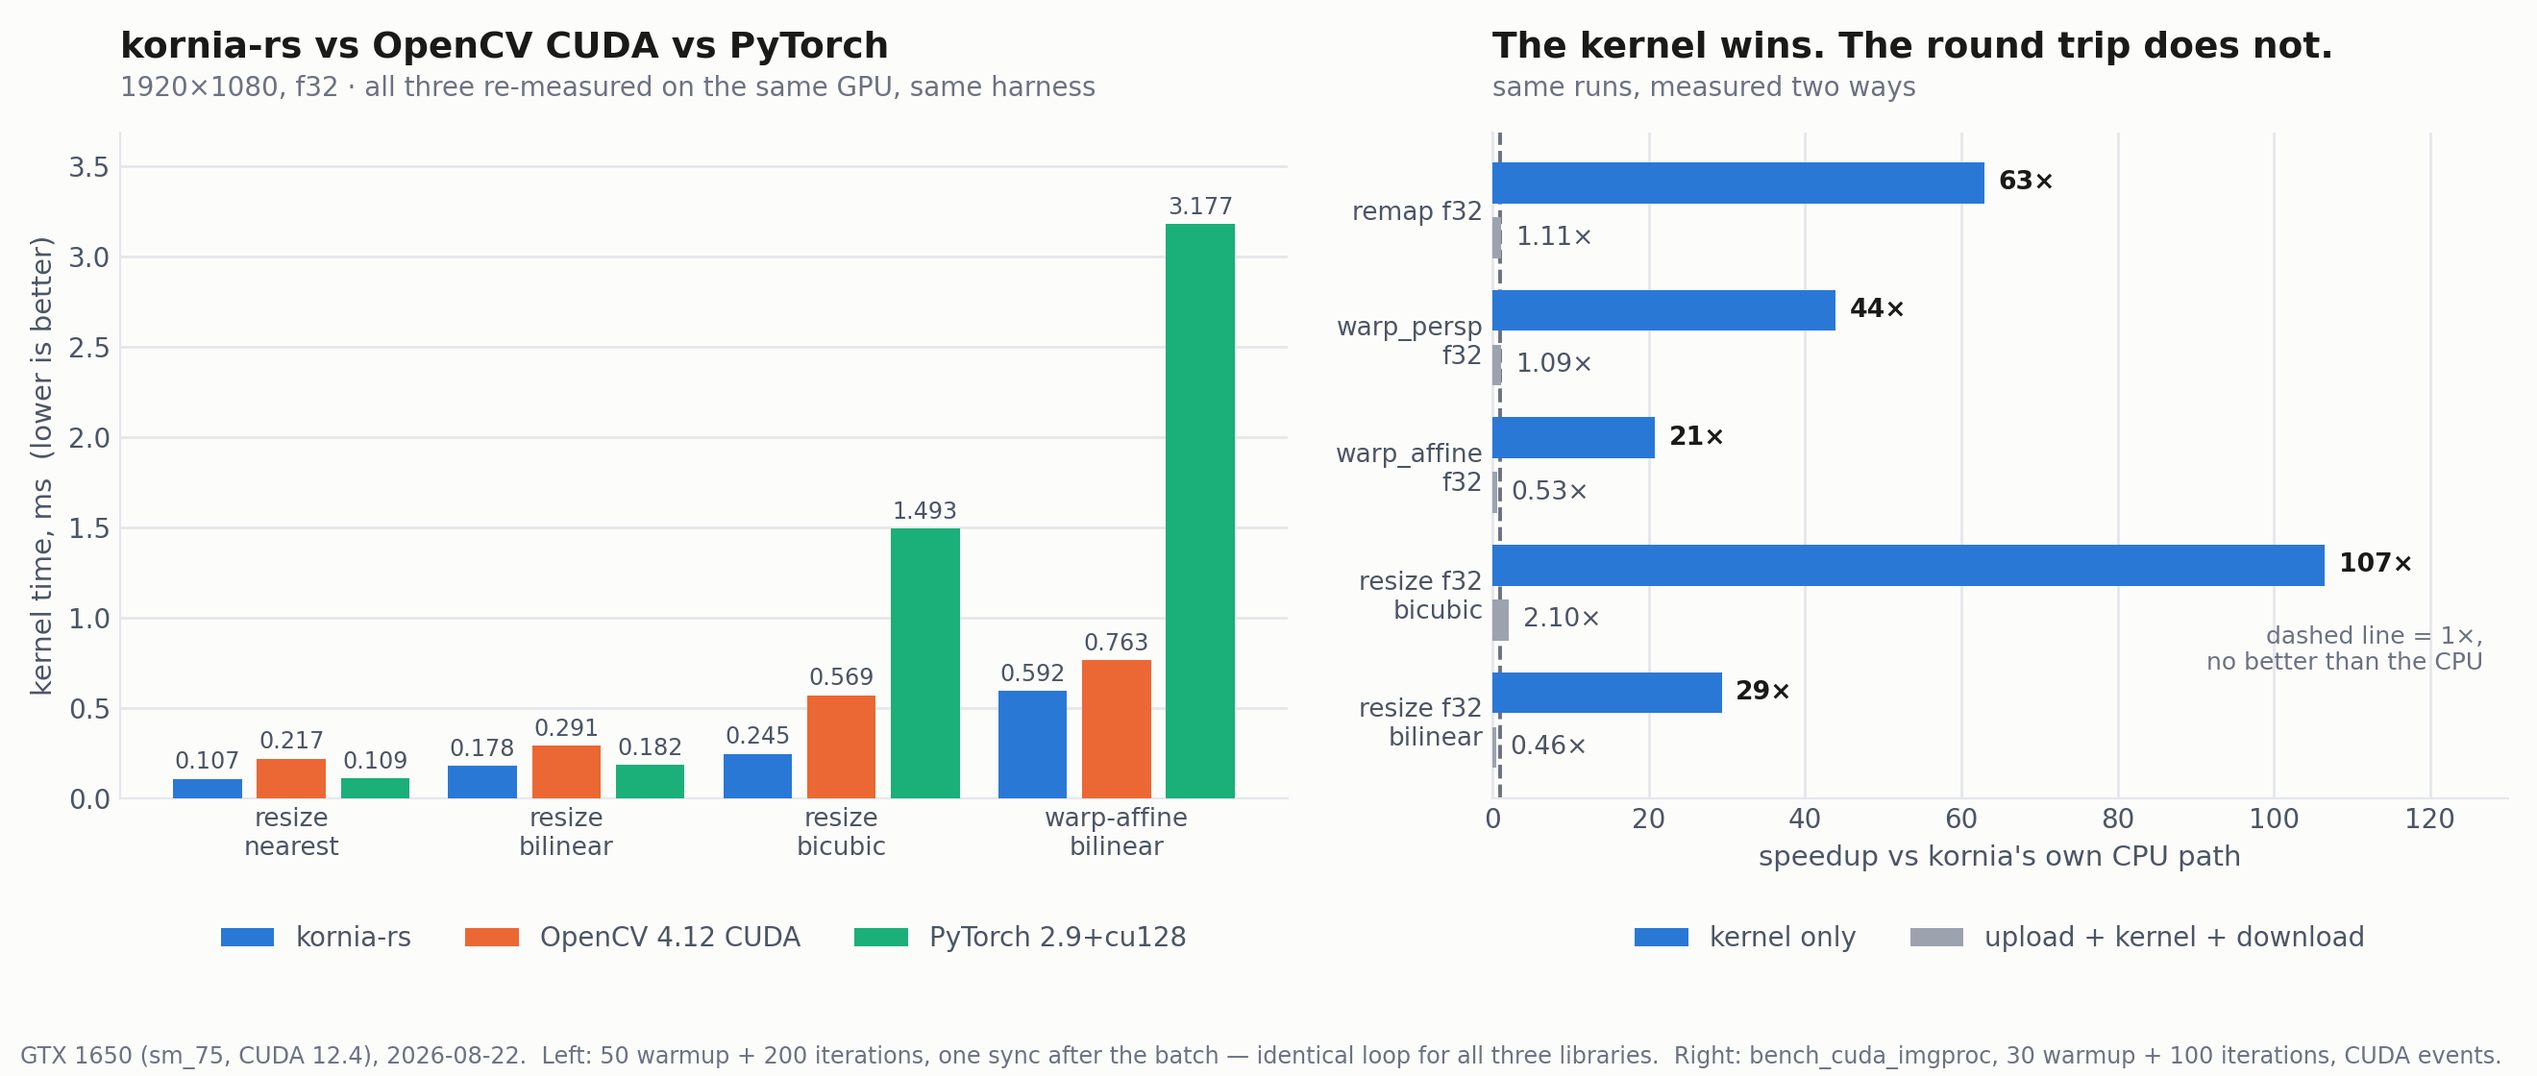
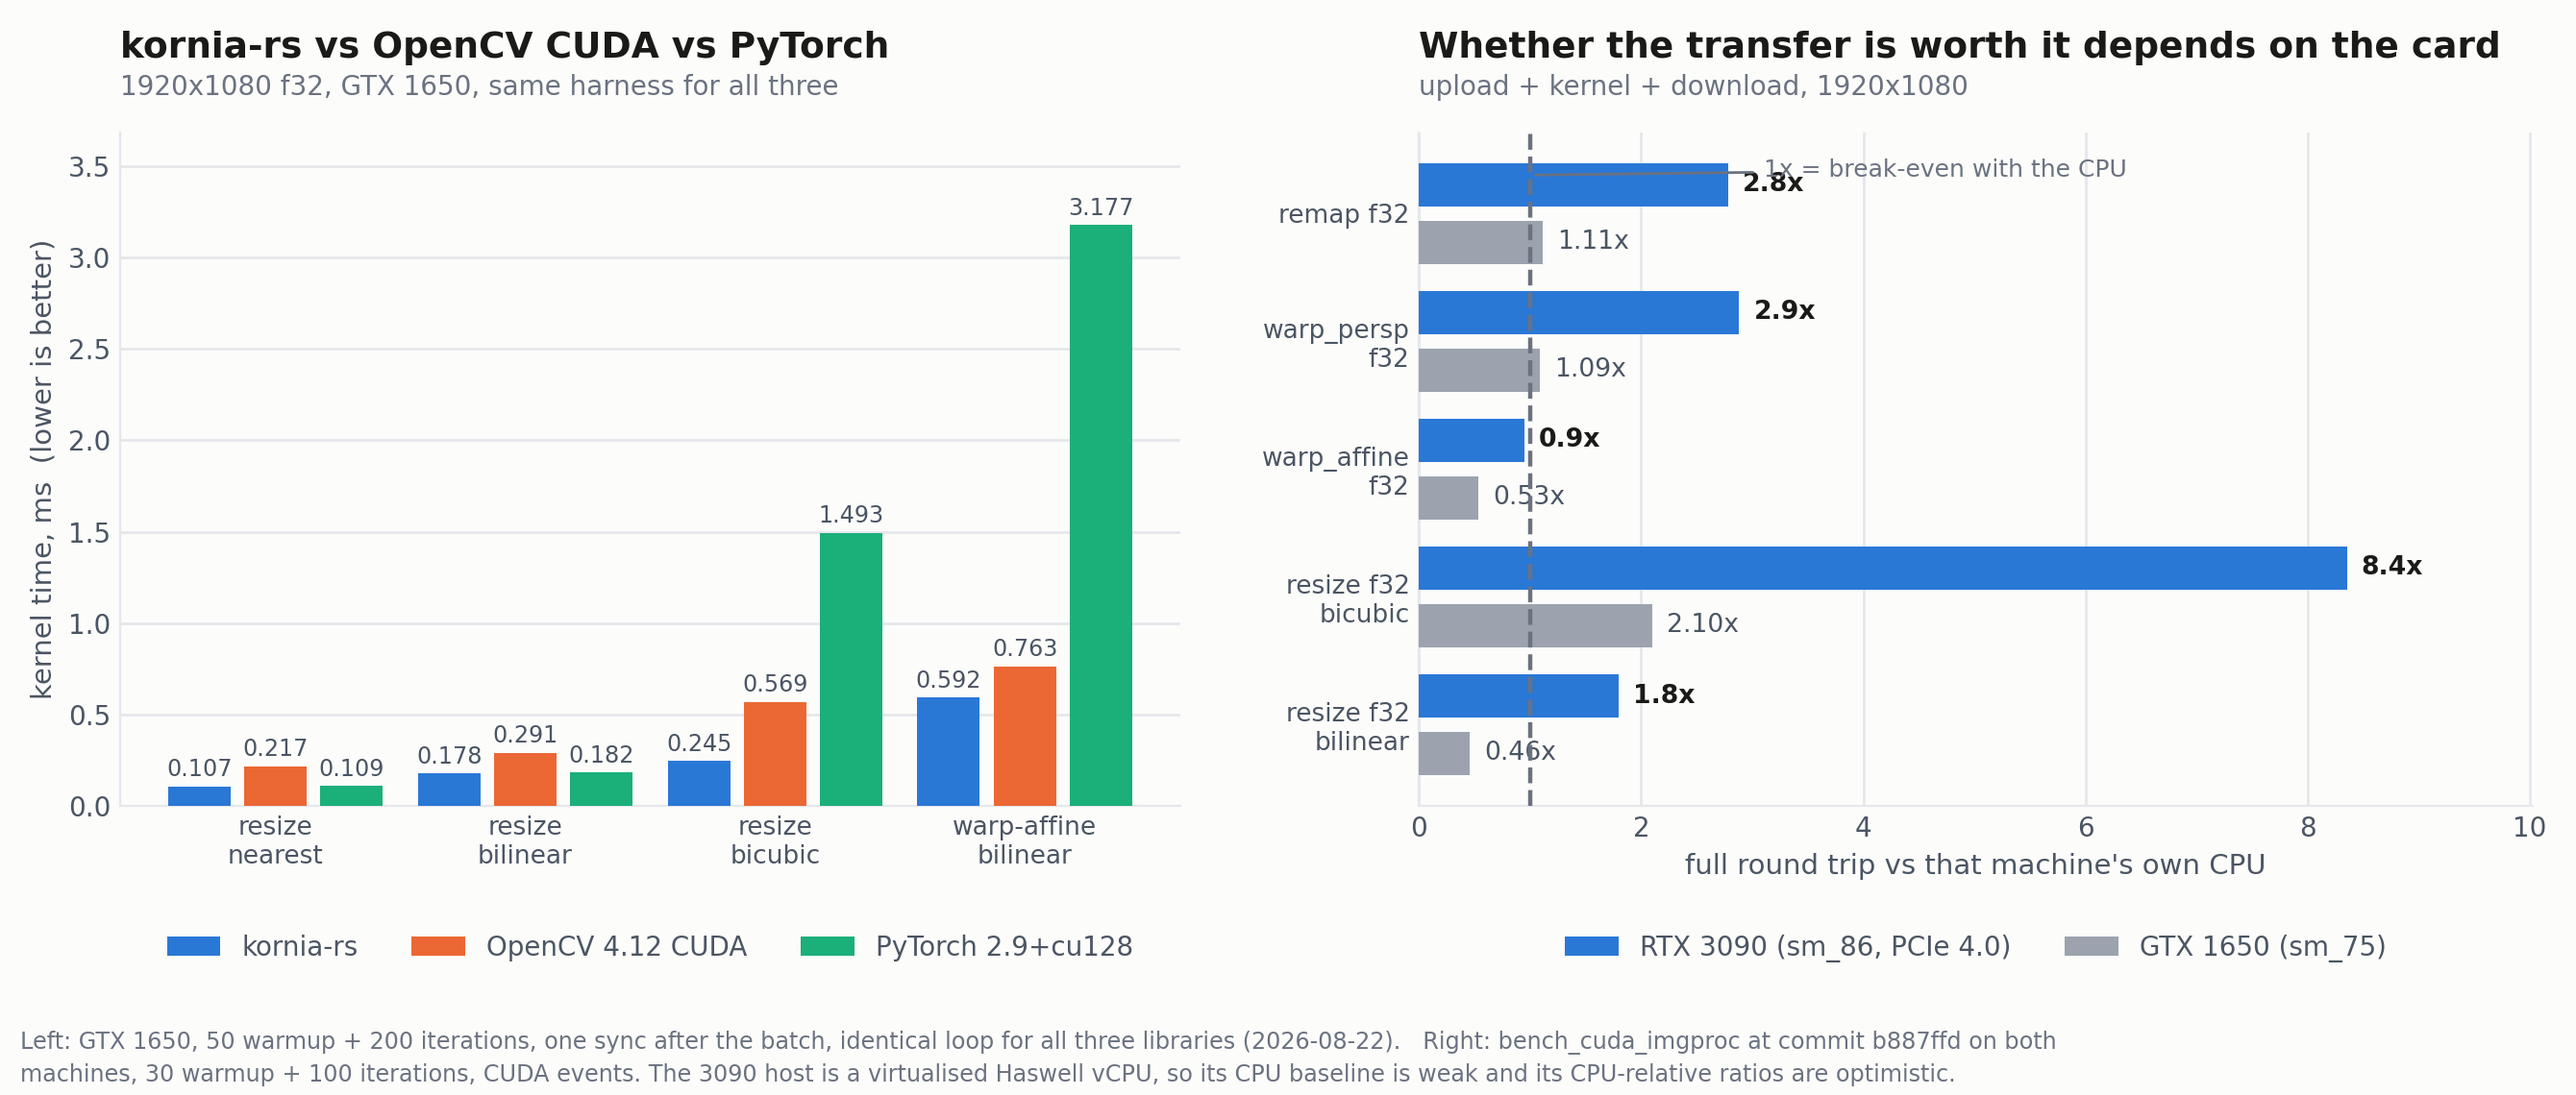
post: add the RTX 3090 run, which overturns the round-trip conclusion

diff --git a/_posts/2026-08-22-gsoc-2026-gpu-acceleration-kornia-rs.md b/_posts/2026-08-22-gsoc-2026-gpu-acceleration-kornia-rs.md
@@ -128,7 +128,7 @@ and fused warps where the arithmetic is cheap enough that map traffic dominates.
 
 ## Results
 
-![]({{ site.baseurl }}/images/gsoc2026-gpu/benchmarks.png "Benchmarks vs OpenCV CUDA and PyTorch")
+![]({{ site.baseurl }}/images/gsoc2026-gpu/benchmarks.png "Kernel times against OpenCV CUDA and PyTorch, and round-trip economics on two cards")
 
 GTX 1650, against OpenCV 4.12 CUDA and PyTorch 2.9+cu128, all three re-measured
 on the same card with the same loop: 50 warmup, 200 timed iterations, one sync
@@ -183,19 +183,50 @@ Those are all *kernel* times, which is the fair comparison against cv2 CUDA. But
 it isn't what a caller experiences if the data starts on the host. So I built a
 benchmark separating host-to-device transfer, kernel, and device-to-host.
 
+On my GTX 1650, the answer was blunt:
+
 | Operation | Resolution | CPU | H2D | Kernel | D2H | Kernel | Round-trip |
 | --- | --- | ---: | ---: | ---: | ---: | ---: | ---: |
-| resize (f32) bilinear | 1080p→540p | 5.28 ms | 9.16 ms | 0.18 ms | 2.21 ms | **28.7×** | **0.5×** |
-| gray_from_rgb (u8) | 4K | 6.18 ms | 9.61 ms | 0.30 ms | 8.78 ms | **20.8×** | **0.3×** |
+| resize (f32) bilinear | 1080p to 540p | 5.28 ms | 9.16 ms | 0.18 ms | 2.21 ms | **28.7x** | **0.46x** |
+| gray_from_rgb (u8) | 4K | 6.18 ms | 9.61 ms | 0.30 ms | 8.78 ms | **20.8x** | **0.3x** |
 
-The kernel is 20-30× faster. The round trip is *slower than staying on the CPU*.
-For bandwidth-bound operations PCIe dominates so completely the kernel barely
-registers.
+The kernel is 20-30x faster and the round trip is *slower than staying on the
+CPU*. The transfers cost eleven times what the kernel costs. That is the whole
+argument for refusing implicit transfers: a backend that quietly uploaded and
+downloaded around every call would be slower than the CPU path while looking
+like an optimization, and nobody would be able to see it happening.
 
-That's not a disappointing result, it's the design constraint stated numerically and it's exactly why the API refuses implicit transfers. A backend that
-silently uploaded and downloaded around every call would be slower than the CPU
-path while looking like an optimization. The device path pays off when a tensor
-becomes device-resident and *stays* there across many operations.
+I was ready to state that as a general property of bandwidth-bound GPU work.
+Then a friend ran the same benchmark, same commit, on an RTX 3090:
+
+| resize f32 bilinear, 1080p | CPU | H2D | Kernel | D2H | Round-trip |
+| --- | ---: | ---: | ---: | ---: | ---: |
+| GTX 1650 | 5.28 ms | 9.16 ms | 0.18 ms | 2.21 ms | **0.46x** |
+| RTX 3090 | 6.95 ms | 2.71 ms | 0.04 ms | 1.11 ms | **1.8x** |
+
+The kernel got 4.5x faster, which I expected. The transfers also got 3.4x faster
+on the upload and 2x on the download, which I had not thought about at all. On
+the 3090 the round trip **wins on 37 of the 58 benchmarked operations**, by up to
+38x. Bicubic resize goes from 2.1x to 8.4x.
+
+So "PCIe dominates" was never a fact about GPUs. It was a fact about my GPU, on
+a narrower link, and I had been about to generalise from a sample of one. What
+actually holds is the weaker and more useful claim: whether a transfer pays for
+itself depends on the ratio between your link and your CPU, it varies by more
+than an order of magnitude across cards, and the only way to know is to measure
+the machine you are shipping on. Which is why the benchmark reports the split
+instead of a single number.
+
+One honest caveat on that 3090 run. Its host is a virtualised Haswell vCPU, so
+the CPU baseline is weak and every CPU-relative ratio on that machine is
+optimistic by some amount I can't quantify without a second run on real
+hardware. The kernel and transfer columns are unaffected. The direction of the
+result survives the caveat comfortably, but the exact multipliers should be read
+as a range, not a measurement.
+
+Either way, the device path is at its best when a tensor becomes device-resident
+and *stays* there across a chain of operations, because then the transfer is
+paid once instead of per call. That is what the domain dispatch exists to allow.
 
 ## Three things I got wrong
 
@@ -323,7 +354,9 @@ were stripped out.
 ## Thanks
 
 To Edgar Riba and Christie Purackal for review consistently more careful than the code deserved, for
-the Jetson access that made half these numbers possible. And to the kornia community. Everything
+the Jetson access that made half these numbers possible, and to the friend who
+ran the whole suite on an RTX 3090 and accidentally overturned one of my
+conclusions. And to the kornia community. Everything
 is in [kornia/kornia-rs](https://github.com/kornia/kornia-rs) behind the `cuda`
 feature flag.
 
